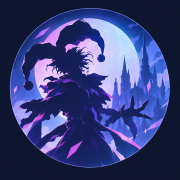
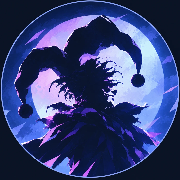
OGP画像とアイコンを新しい画像に差し替える

diff --git a/TODO.md b/TODO.md
@@ -73,7 +73,7 @@
     - favicon.png（32×32px）：ブラウザのタブ用
     - apple-touch-icon.png（180×180px）：スマホのホーム画面用
   - 決定：丸の外側（四隅の紺色）はそのまま残す
-- [ ] 21. OGP、Favicon画像変更
+- [x] 21. OGP、Favicon画像変更
 - [x] 22. 加速度の選択欄にアイコン追加
   - 決定：helper（20260808_JS_FFXIV_DMU-P4-helper）の加速度アイコンを app.js に埋め込んで使う
   - 決定：アイコン（高さ26px。36pxを試したあと縮小）を文字の左に並べる（末尾に置く案と見比べて決定）。ボタンの高さは60pxのまま
